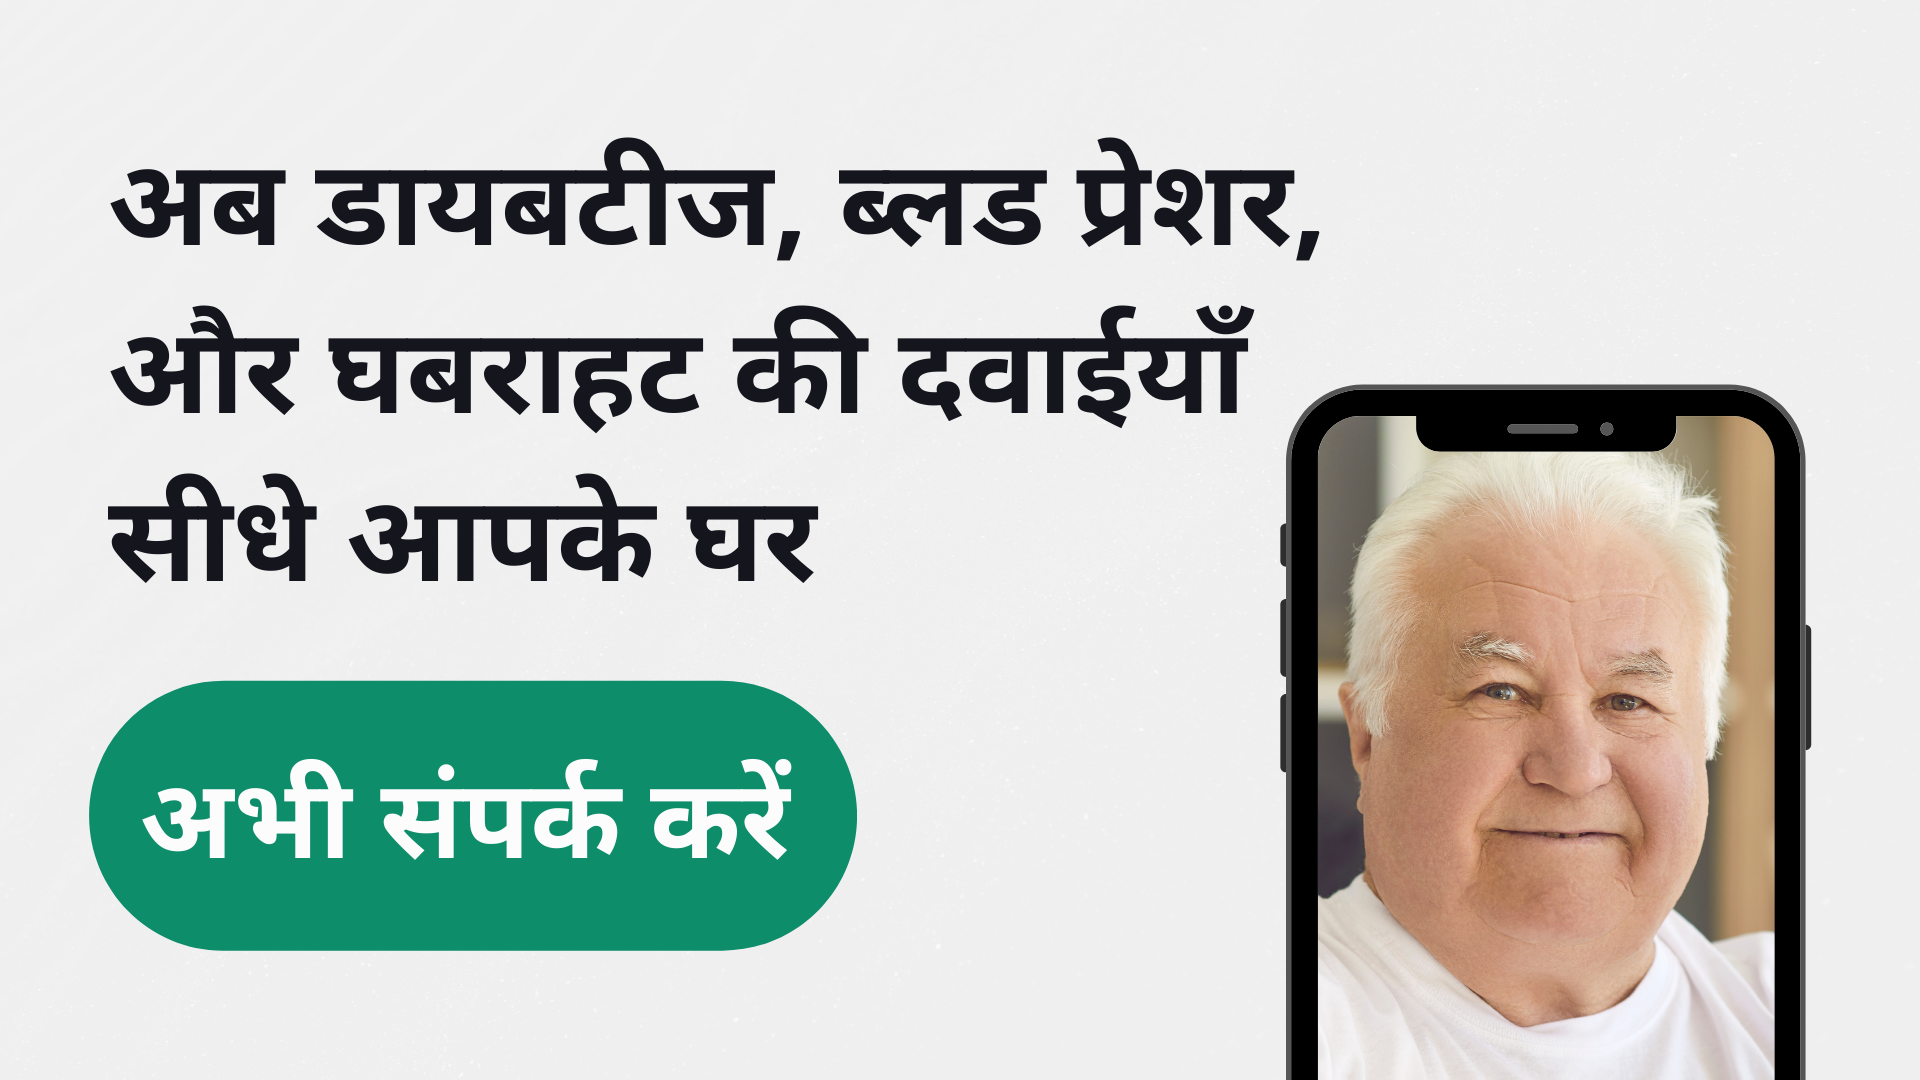
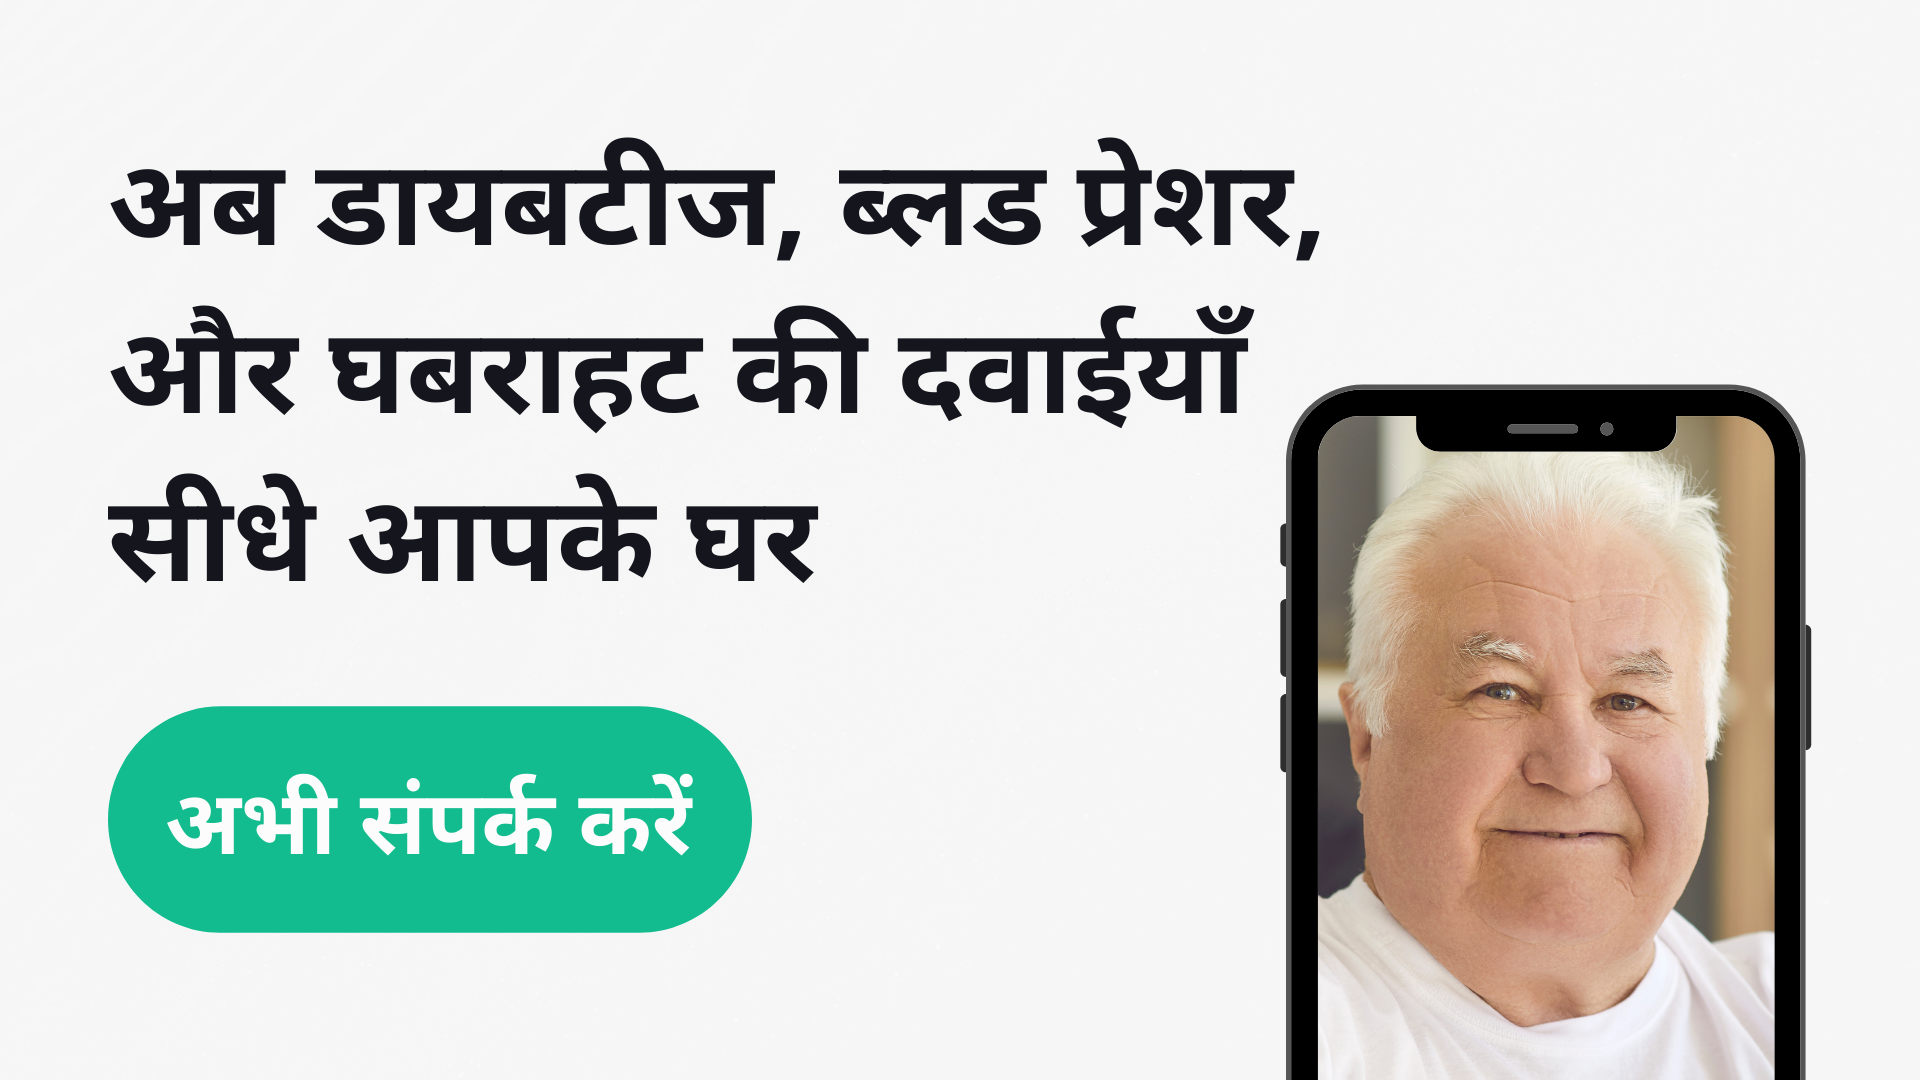
update themecolor for pwa

Changed region(s): [[0.0312, 0.6111, 0.4688, 0.8861]]

diff --git a/src/components/Category.js b/src/components/Category.js
@@ -1,7 +1,6 @@
 import { category } from "../database/products";
 
 export default function Category({ handleClick }) {
-
   return (
     <div
       id="problem"
@@ -21,6 +20,9 @@ export default function Category({ handleClick }) {
               key={category.category_id}
               className="col-12 col-sm-6 col-md-4 col-xl-3 mb-4"
             >
+                                <a
+                    onClick={() => handleClick(category.category_name)}
+                    href={`#${category.category_name}`} style={{textDecoration:"none",color:"#000"}}>
               <div
                 className="card shadow-sm h-100"
                 style={{
@@ -44,63 +46,53 @@ export default function Category({ handleClick }) {
                     <strong>{category.heading}</strong>
                   </h5>
                   <p className="card-text"></p>
-                  <a
-                    onClick={() => handleClick(category.category_name)}
-                    href={`#${category.category_name}`}
-                    className="btn btn-primary shadow-lg px-4 py-2 mb-2"
-                    style={{
-                      backgroundColor: "#15d19c",
-                      borderColor: "#15d19c",
-                      color: "#000",
-                    }}
+                  <button
+                    onClick={() => handleClick(category.category_name)}                   
+                    className="btn shadow-lg px-4 py-2 mb-2 secondary-button"
                   >
                     <strong>अभी ऑर्डर करें</strong>
-                  </a>
+                  </button>
                 </div>
               </div>
+              </a>
             </div>
           ))}
           <div
-              key={category.category_id}
-              className="col-12 col-sm-6 col-md-4 col-xl-3 mb-4"
+            key={category.category_id}
+            className="col-12 col-sm-6 col-md-4 col-xl-3 mb-4"
+          >
+            <div
+              className="card shadow-sm h-100"
+              style={{
+                // backgroundColor:"#9bffc7",
+                backgroundColor: "#ffffff",
+                backgroundImage:
+                  "linear-gradient(0deg, #ffffff 0%, #d7e1ec 74%)",
+                width: "95%",
+                border: "none",
+                margin: "auto",
+              }}
             >
-              <div
-                className="card shadow-sm h-100"
-                style={{
-                  // backgroundColor:"#9bffc7",
-                  backgroundColor: "#ffffff",
-                  backgroundImage:
-                    "linear-gradient(0deg, #ffffff 0%, #d7e1ec 74%)",
-                  width: "95%",
-                  border: "none",
-                  margin: "auto",
-                }}
-              >
-                <img
-                  style={{ margin: "auto" }}
-                  src={require(`../assets/categories/apparatus.png`)}
-                  className="card-img-top pt-4 w-25"
-                  alt="..."
-                />
-                <div className="card-body">
-                  <h5>
-                    <strong>मेडिकल उपकरण</strong>
-                  </h5>
-                  <p className="card-text"></p>
-                  <a
-                    href={`//api.whatsapp.com/send/?phone=+919193497332&text=मेडिकल उपकरण का नाम बताएं`}
-                    className="btn btn-primary shadow-lg px-4 py-2 mb-2"
-                    style={{
-                      backgroundColor: "#15d19c",
-                      borderColor: "#15d19c",
-                      color: "#000",
-                    }}
-                  >
-                    <strong>अभी ऑर्डर करें</strong>
-                  </a>
-                </div>
+              <img
+                style={{ margin: "auto" }}
+                src={require(`../assets/categories/apparatus.png`)}
+                className="card-img-top pt-4 w-25"
+                alt="..."
+              />
+              <div className="card-body">
+                <h5>
+                  <strong>मेडिकल उपकरण</strong>
+                </h5>
+                <p className="card-text"></p>
+                <a
+                  href={`//api.whatsapp.com/send/?phone=+919193497332&text=मेडिकल उपकरण का नाम बताएं`}
+                  className="btn btn-primary shadow-lg px-4 py-2 mb-2 secondary-button"
+                >
+                  <strong>अभी ऑर्डर करें</strong>
+                </a>
               </div>
             </div>
+          </div>
           {/*  */}
         </div>
       </div>

diff --git a/src/index.css b/src/index.css
@@ -1,7 +1,7 @@
 body {
   margin: 0;
-  font-family: -apple-system, BlinkMacSystemFont, 'Segoe UI', 'Roboto', 'Oxygen',
-    'Ubuntu', 'Cantarell', 'Fira Sans', 'Droid Sans', 'Helvetica Neue',
+  font-family: -apple-system, BlinkMacSystemFont, "Segoe UI", "Roboto", "Oxygen",
+    "Ubuntu", "Cantarell", "Fira Sans", "Droid Sans", "Helvetica Neue",
     sans-serif;
   -webkit-font-smoothing: antialiased;
   -moz-osx-font-smoothing: grayscale;
@@ -10,12 +10,11 @@ body {
 }
 
 code {
-  font-family: source-code-pro, Menlo, Monaco, Consolas, 'Courier New',
+  font-family: source-code-pro, Menlo, Monaco, Consolas, "Courier New",
     monospace;
 }
-.cart-border{
-border:  1px solid #15d19c!important;
-
+.cart-border {
+  border: 1px solid #15d19c !important;
 }
 button {
   border-color: #0e8d6a;
@@ -25,3 +24,33 @@ button {
   outline: 0;
   box-shadow: none;
 }
+
+.primary-button {
+  /* light#0a644c dark#01594d */
+  background-color: #01594d;
+  border-color: #01594d;
+  color: #fff;
+}
+.primary-button:hover{
+  color: #fff;
+}
+.secondary-button {
+  background-color: #12bc8e;
+  border-color: #12bc8e;
+  color: #fff;
+}
+.secondary-button:hover {
+color: #fff;
+}
+/*
+// fucking colors
+
+- light green => rgb(0 166 111)
+- dark green => #01594d
+- green =>
+      primary: hsl(167deg 73% 56%)  #3de1bd  #19a385
+      secondry: hsl(169deg 48% 29%) #266d60  #19483f
+
+- royal blue #4169e1
+
+*/

diff --git a/src/components/AllProducts.js b/src/components/AllProducts.js
@@ -123,12 +123,10 @@ export default function Products({ filteredProducts, categoryName }) {
                       >
                         <div className="col-12 px-0 text-start">
                           <span
-                            className="btn btn-lg py-2"
+                            className="btn btn-lg py-2 primary-button"
                             style={{
                               borderWidth: "2px",
-                              backgroundColor: "#15d19c",
-                              borderColor: "#15d19c",
-                              color: "#000",
+                              color: "#fff",
                               fontSize: "16px",
                               fontWeight: "500",
                               width: "100%",

diff --git a/public/index.html b/public/index.html
@@ -4,7 +4,7 @@
     <meta charset="utf-8" />
     <link rel="icon" href="%PUBLIC_URL%/logo.png" />
     <meta name="viewport" content="width=device-width, initial-scale=1" />
-    <meta name="theme-color" content="#0e8d6a" />
+    <meta name="theme-color" content="#01594d" />
     <meta
       name="description"
       content="डायबटीज, ब्लड प्रेशर और शुगर की सभी दवाइयां और उनसे संबंधित मशीनी यंत्र यहां मिलते हैं

diff --git a/src/components/Header.js b/src/components/Header.js
@@ -1,8 +1,8 @@
-import logo from "../assets/logo-green-bg.jpeg";
+import logo from "../assets/logo-green-bg.png";
 
 export default function Header() {
   return (
-    <div className="container-fluid" style={{ backgroundColor: "#0e8d6a" }}>
+    <div className="container-fluid" style={{ backgroundColor: "#01594d" }}>
       <div className="container">
         <div className="row align-items-center justify-content-start py-2">
           {/* logo+navigation */}
